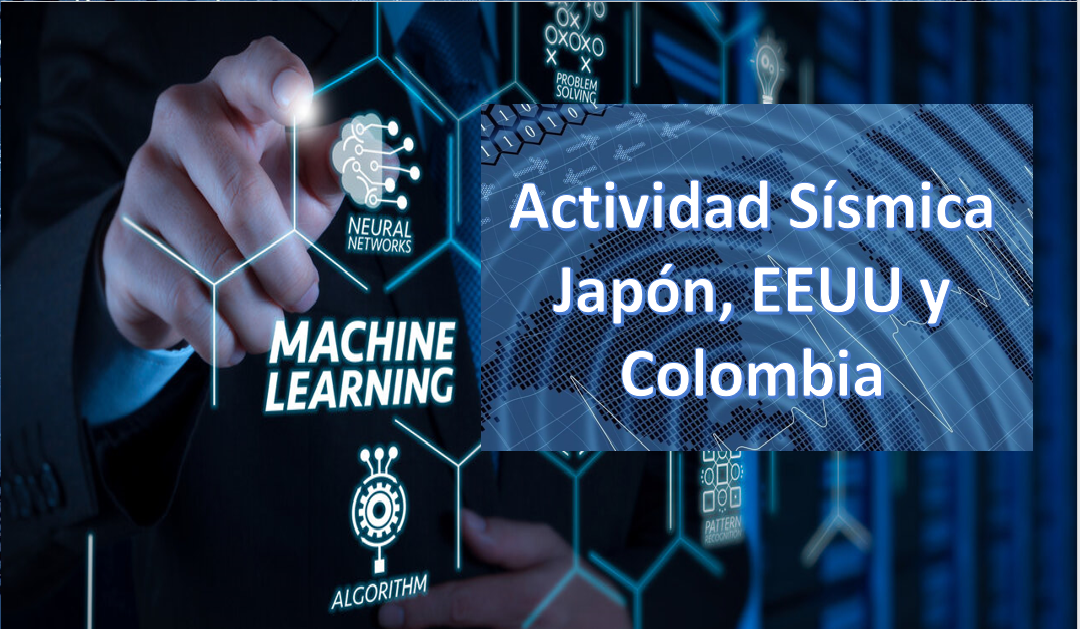
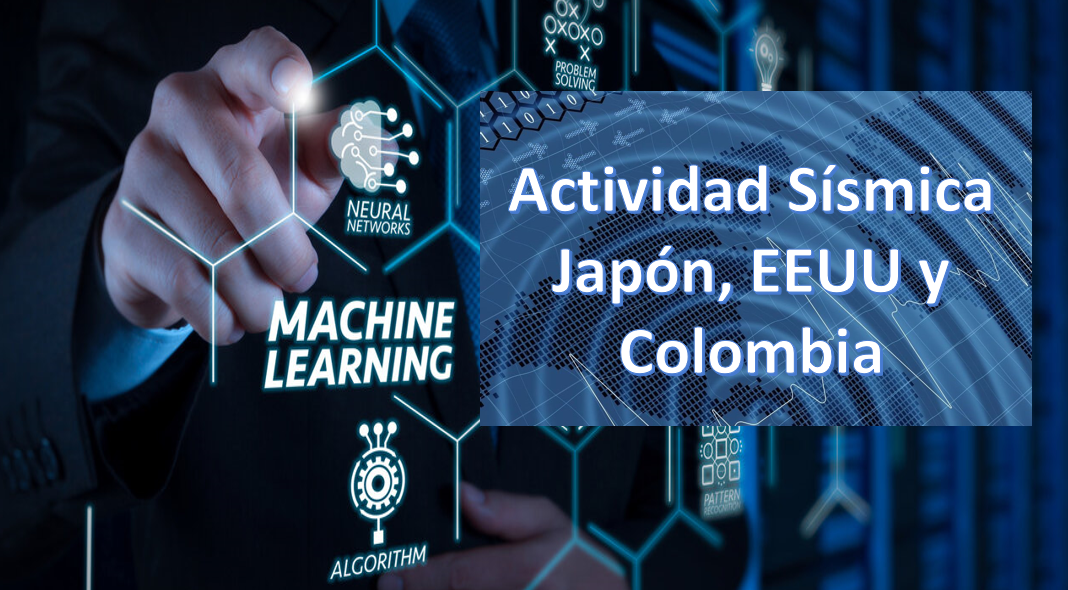
1

diff --git a/main_sismo.py b/main_sismo.py
@@ -81,7 +81,7 @@ def main():
         layout="wide",  # Establece el diseño de la página de la aplicación como "wide" para ocupar todo el ancho disponible.
         initial_sidebar_state="expanded",  # Configura el estado inicial de la barra lateral como expandida.
         )
-    st.image("imagen.png", width=400)
+    st.image("imagen.png", width=400, use_column_width=True)
 
     st.title("Clasificación Sismo")
 
